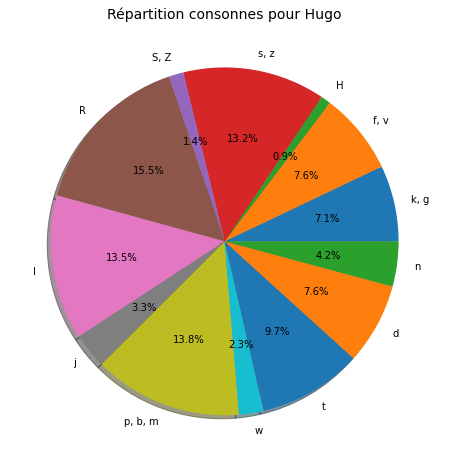
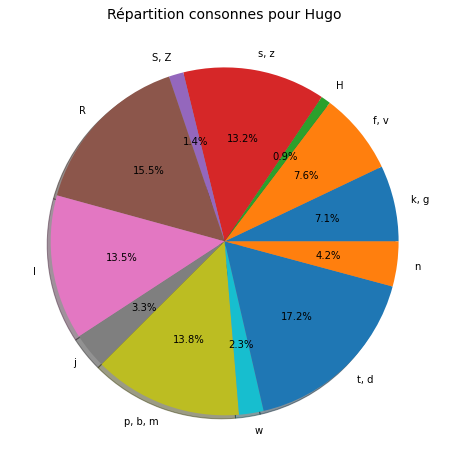
rectification consonnes couple t d

Changed region(s): [[0.4989, 0.5107, 0.9042, 0.7811], [0.8731, 0.691, 0.9042, 0.721], [0.8107, 0.8112, 0.8419, 0.8412]]

diff --git a/scripts/stats_consonnes/stats_consonnes.py b/scripts/stats_consonnes/stats_consonnes.py
@@ -20,11 +20,12 @@ couple_f_v = ["f", "v"]
 couple_p_b_m = ["p", "b", "m"]
 couple_s_z = ["s", "z"]
 couple_S_Z = ["S", "Z"]
+couple_t_d = ["t", "d"]
 liste_consonnes =  ["p", "t", "k", "f", "s", "S","b", "d", "g", "v", "z", "j", "l","R", "n", "N", "m", "w", "H"]
 #Pourcentage par phonème
 def stats_phonemes(fichier):
 
-                dico_consonnes = {"k, g" : 0, "f, v" : 0, "H" : 0, "s, z" : 0, "S, Z" : 0, "R" : 0, "l" : 0, "j" : 0,"p, b, m" : 0, "w" : 0, "t" : 0, "d" : 0, "n" : 0}
+                dico_consonnes = {"k, g" : 0, "f, v" : 0, "H" : 0, "s, z" : 0, "S, Z" : 0, "R" : 0, "l" : 0, "j" : 0,"p, b, m" : 0, "w" : 0, "t, d" : 0, "n" : 0}
 
                 with open(fichier, "r") as filecsv:
                     print(fichier)
@@ -46,6 +47,9 @@ def stats_phonemes(fichier):
                                     
                                 elif phoneme in couple_S_Z and len(re.findall(phoneme, row[1])) != 0 :
                                     dico_consonnes["S, Z"] += len(re.findall(phoneme, row[1]))
+                                
+                                elif phoneme in couple_t_d and len(re.findall(phoneme, row[1])) != 0:
+                                    dico_consonnes["t, d"] += len(re.findall(phoneme, row[1]))
                                      
                                 elif len(re.findall(phoneme, row[1])) != 0 :
                                     dico_consonnes[phoneme] += len(re.findall(phoneme, row[1]))

diff --git a/scripts/stats_cesure_rime/stats_consonnes_cesure_rime.py b/scripts/stats_cesure_rime/stats_consonnes_cesure_rime.py
@@ -21,12 +21,13 @@ couple_f_v = ["f", "v"]
 couple_p_b_m = ["p", "b", "m"]
 couple_s_z = ["s", "z"]
 couple_S_Z = ["S", "Z"]
+couple_t_d = ["t", "d"]
 liste_consonnes =  ["p", "t", "k", "f", "s", "S","b", "d", "g", "v", "z", "j", "l","R", "n", "N", "m", "w", "H"]
 
 
 def stats_consonnes_six_douze(fichier):
 
-                dico_consonnes = {"k, g" : 0, "f, v" : 0, "H" : 0, "s, z" : 0, "S, Z" : 0, "R" : 0, "l" : 0, "j" : 0,"p, b, m" : 0, "w" : 0, "t" : 0, "d" : 0, "n" : 0}
+                dico_consonnes = {"k, g" : 0, "f, v" : 0, "H" : 0, "s, z" : 0, "S, Z" : 0, "R" : 0, "l" : 0, "j" : 0,"p, b, m" : 0, "w" : 0, "t, d" : 0, "n" : 0}
 
                 with open(fichier, "r") as filecsv:
                     print(fichier)
@@ -49,6 +50,9 @@ def stats_consonnes_six_douze(fichier):
                                 
                             elif phoneme in couple_S_Z and len(re.findall(phoneme, row[0])) != 0 :
                                 dico_consonnes["S, Z"] += int(row[1])
+                            
+                            elif phoneme in couple_t_d and len(re.findall(phoneme, row[0])) != 0 :
+                                dico_consonnes["t, d"] += int(row[1])
                                  
                             elif len(re.findall(phoneme, row[0])) != 0 :
                                 dico_consonnes[phoneme] += int(row[1])
